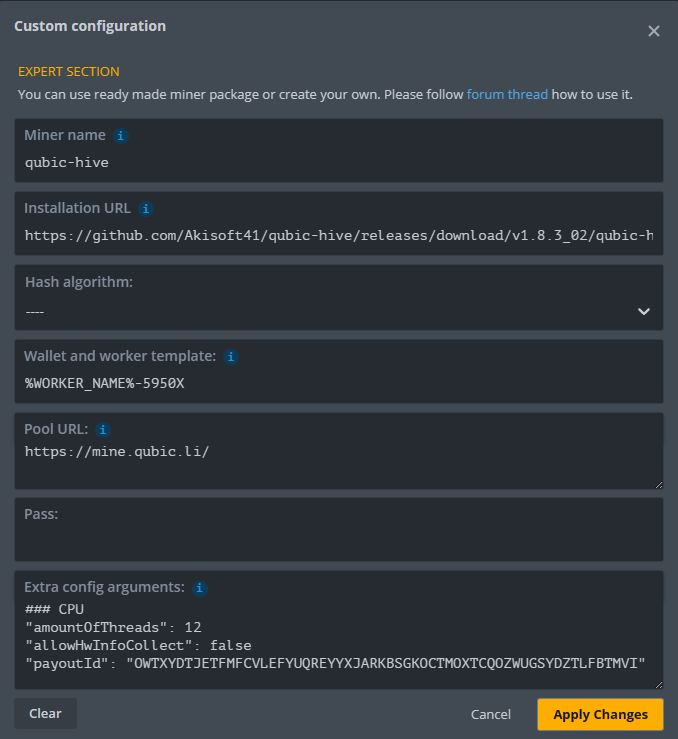
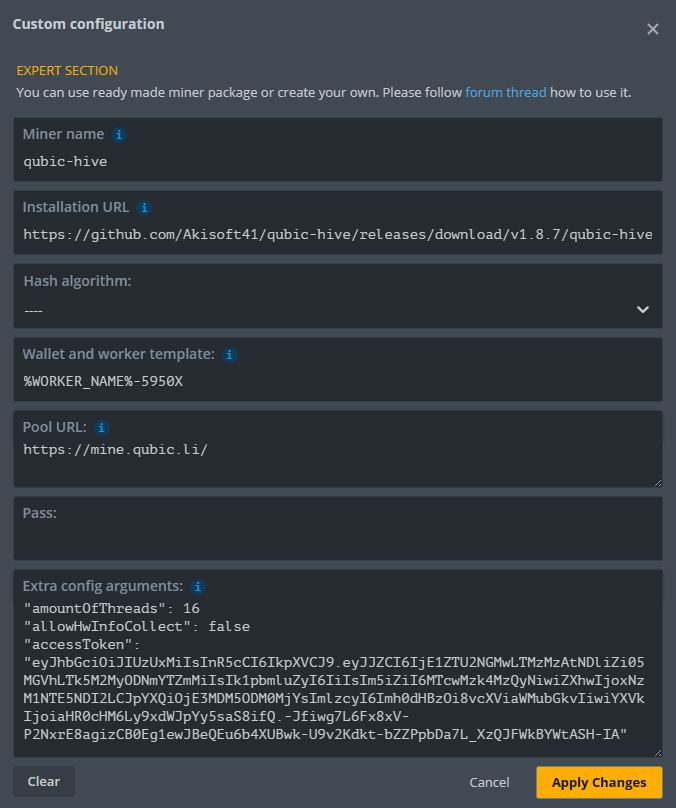
v1.8.7

Changed region(s): [[0.0, 0.0, 0.9941, 0.9959], [0.963, 0.0311, 0.9941, 0.0622]]

diff --git a/README.md b/README.md
@@ -45,7 +45,7 @@ Ne pas modifier ce champ, il est rempli automatiquement avec l'installation URL.
 
 ### Installation URL
 
-`https://github.com/Akisoft41/qubic-hive/releases/download/v1.8.5/qubic-hive-1.8.5.tar.gz`
+`https://github.com/Akisoft41/qubic-hive/releases/download/v1.8.7/qubic-hive-1.8.7.tar.gz`
 
 ### Hash algorithm:
 
@@ -72,16 +72,16 @@ Chaque ligne (sprarées par un `CR`) est fusionnée dans `appsettings.json`
 - Il est possible de mettre un commentaire en commençant la ligne par un `#`.
 
 #### GPU
-- Pour les OC, on peut mettre directement une ligne pour la commande `nvtool`
-- Il faut une des lignes 
+- Pour les OC, on peut mettre directement une ligne pour la commande `nvtool`.
+- Il faut une des lignes :
   - `"payoutId": "_ton_payout_id_"` ou 
   - `"accessToken": "_ton_access_token_"`
 
 #### CPU
-Pour le minage **CPU**, il faut ajouter 
+Pour le minage **CPU**, il faut ajouter :
 - `"amountOfThreads": n` (remplacer *n* par le nombre de threads)
 - `"allowHwInfoCollect": false`
-- Il faut une des lignes
+- Il faut une des lignes :
   - `"payoutId": "_ton_payout_id_"` ou 
   - `"accessToken": "_ton_access_token_"`
 
